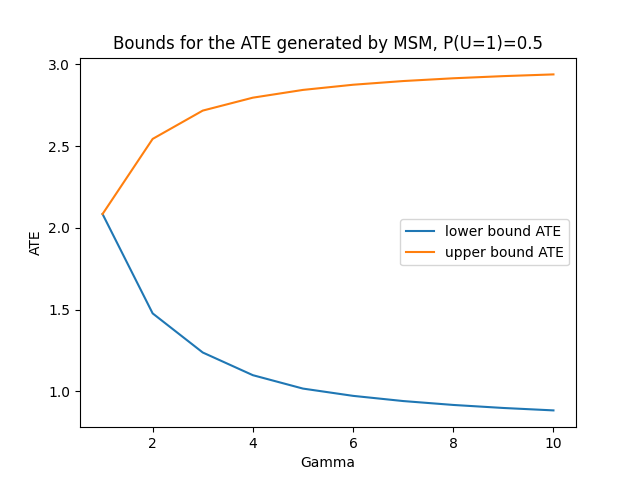
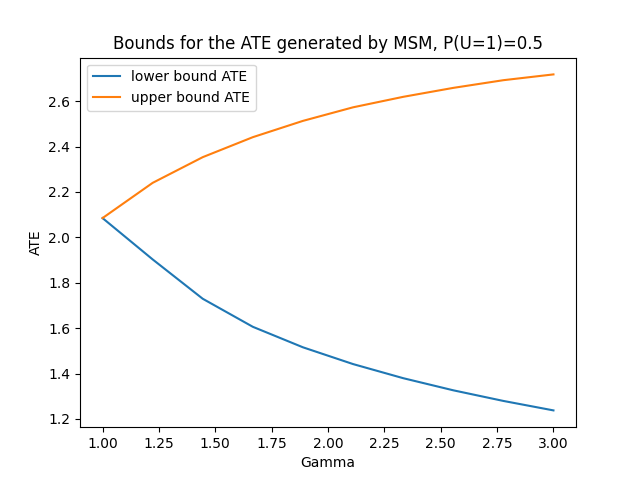
New plots for discussion

diff --git a/models/UncertaintySensitivityModels.py b/models/UncertaintySensitivityModels.py
@@ -215,13 +215,13 @@ def create_f_sensitivity_model(data, rho, treatment, is_lower_bound, alpha_prop,
     model = ConcreteModel(name="FSensitivityModel")
     model.X = RangeSet(0, x_size - 1)
     model.Y = RangeSet(0, y_size - 1)
-    model.L = Var(model.X, model.Y, initialize=1, within=NonNegativeReals)
-    model.propensity = Var(model.X, bounds=(0, 1))
+    model.L = Var(model.X, model.Y, initialize=1, within=NonNegativeReals, bounds=(0, 100))
+    model.propensity = Var(model.X, within=NonNegativeReals, bounds=(0, 1))
     model.prob = Var(model.X, model.Y, bounds=(0, 1))
 
     def r(model, x):
         mean = sum([model.propensity[x] * X.iloc[x]["size"] for x in model.X]) / sum(X["size"])
-        return (1 - model.propensity[x]) * mean / (model.propensity[x] * (1 - mean) + 0.00001)
+        return (1 - model.propensity[x]) * mean / (model.propensity[x] * (1 - mean))
 
     # Constraint 1: Definition of R
     def r_constraint(model, x):
@@ -298,45 +298,45 @@ if __name__ == '__main__':
     upper_res = []
     control = []
     treated = []
-    gammas = np.linspace(1, 3, 10)
-    for gamma in gammas:
-        y_control, y_treated, lower_control, lower_treated, upper_control, upper_treated = bounds_creator(df,
-                                                                                                          sensitivity_model='msm',
-                                                                                                          sensitivity_measure=gamma)
-        lower_res.append(lower_treated - upper_control)
-        upper_res.append(upper_treated - lower_control)
-        control.append([lower_control, upper_control])
-        treated.append([lower_treated, upper_treated])
-    control = np.array(control)
-    treated = np.array(treated)
-    plt.plot(gammas, lower_res, label='lower bound ATE')
-    plt.plot(gammas, upper_res, label='upper bound ATE')
-    plt.title(f'Bounds for the ATE generated by MSM, P(U=1)=0.{p}')
-    plt.xlabel('Gamma')
-    plt.ylabel('ATE')
-    plt.legend()
-    plt.show()
-    plt.plot(gammas, control[:, 0], label='lower bound')
-    plt.plot(gammas, control[:, 1], label='upper bound')
-    plt.title(f'Average control Y generated by MSM, P(U=1)=0.{p}')
-    plt.xlabel('Gamma')
-    plt.ylabel('E[Y | T=0]')
-    plt.legend()
-    plt.show()
-    plt.plot(gammas, treated[:, 0], label='lower bound')
-    plt.plot(gammas, treated[:, 1], label='upper bound')
-    plt.title(f'Average treated Y generated by MSM, P(U=1)=0.{p}')
-    plt.xlabel('Gamma')
-    plt.ylabel('E[Y | T=1]')
-    plt.legend()
-    plt.show()
+    # gammas = np.linspace(1, 3, 10)
+    # for gamma in gammas:
+    #     y_control, y_treated, lower_control, lower_treated, upper_control, upper_treated = bounds_creator(df,
+    #                                                                                                       sensitivity_model='msm',
+    #                                                                                                       sensitivity_measure=gamma)
+    #     lower_res.append(lower_treated - upper_control)
+    #     upper_res.append(upper_treated - lower_control)
+    #     control.append([lower_control, upper_control])
+    #     treated.append([lower_treated, upper_treated])
+    # control = np.array(control)
+    # treated = np.array(treated)
+    # plt.plot(gammas, lower_res, label='lower bound ATE')
+    # plt.plot(gammas, upper_res, label='upper bound ATE')
+    # plt.title(f'Bounds for the ATE generated by MSM, P(U=1)=0.{p}')
+    # plt.xlabel('Gamma')
+    # plt.ylabel('ATE')
+    # plt.legend()
+    # plt.show()
+    # plt.plot(gammas, control[:, 0], label='lower bound')
+    # plt.plot(gammas, control[:, 1], label='upper bound')
+    # plt.title(f'Average control Y generated by MSM, P(U=1)=0.{p}')
+    # plt.xlabel('Gamma')
+    # plt.ylabel('E[Y | T=0]')
+    # plt.legend()
+    # plt.show()
+    # plt.plot(gammas, treated[:, 0], label='lower bound')
+    # plt.plot(gammas, treated[:, 1], label='upper bound')
+    # plt.title(f'Average treated Y generated by MSM, P(U=1)=0.{p}')
+    # plt.xlabel('Gamma')
+    # plt.ylabel('E[Y | T=1]')
+    # plt.legend()
+    # plt.show()
 
     # F-sensitivity
     lower_res = []
     upper_res = []
     control = []
     treated = []
-    rhos = np.linspace(0, 0.3, 4)
+    rhos = np.linspace(0, 0.3, 10)
     p_treated = len(df[df["T0"] == 1]) / len(df)
     for rho in rhos:
         y_control, y_treated, lower_control, lower_treated, upper_control, upper_treated = bounds_creator(df,

diff --git a/models/SensitivityModels.py b/models/SensitivityModels.py
@@ -222,13 +222,13 @@ def bounds_creator(data, sensitivity_model, sensitivity_measure):
 
 
 if __name__ == '__main__':
-    p = "5"
+    p = "01"
     df = pd.read_csv(f"../csv_files/regular_{p}.csv")
     lower_res = []
     upper_res = []
     control = []
     treated = []
-    gammas = np.linspace(1, 10, 10)
+    gammas = np.linspace(1, 3, 10)
     for gamma in gammas:
         y_control, y_treated, lower_control, lower_treated, upper_control, upper_treated = bounds_creator(df,
                                                                                                           sensitivity_model='msm',
